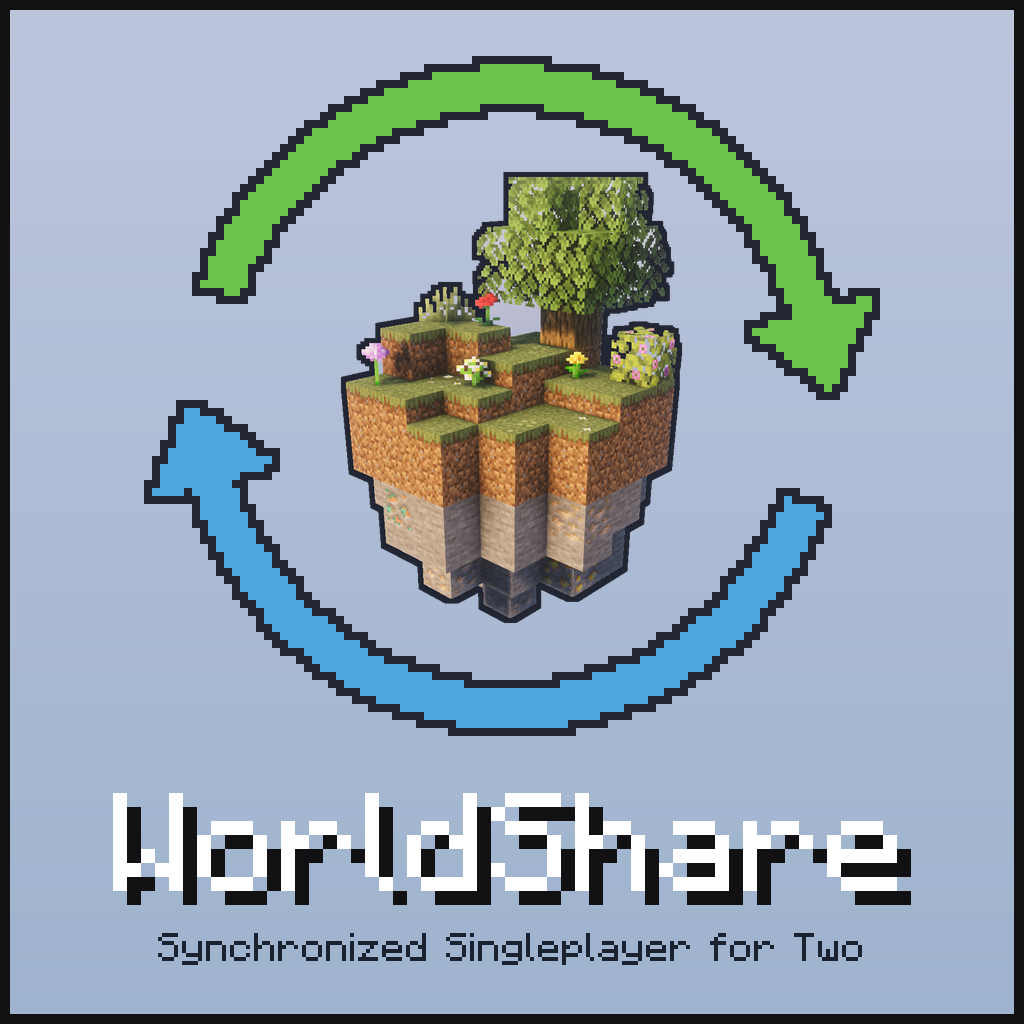
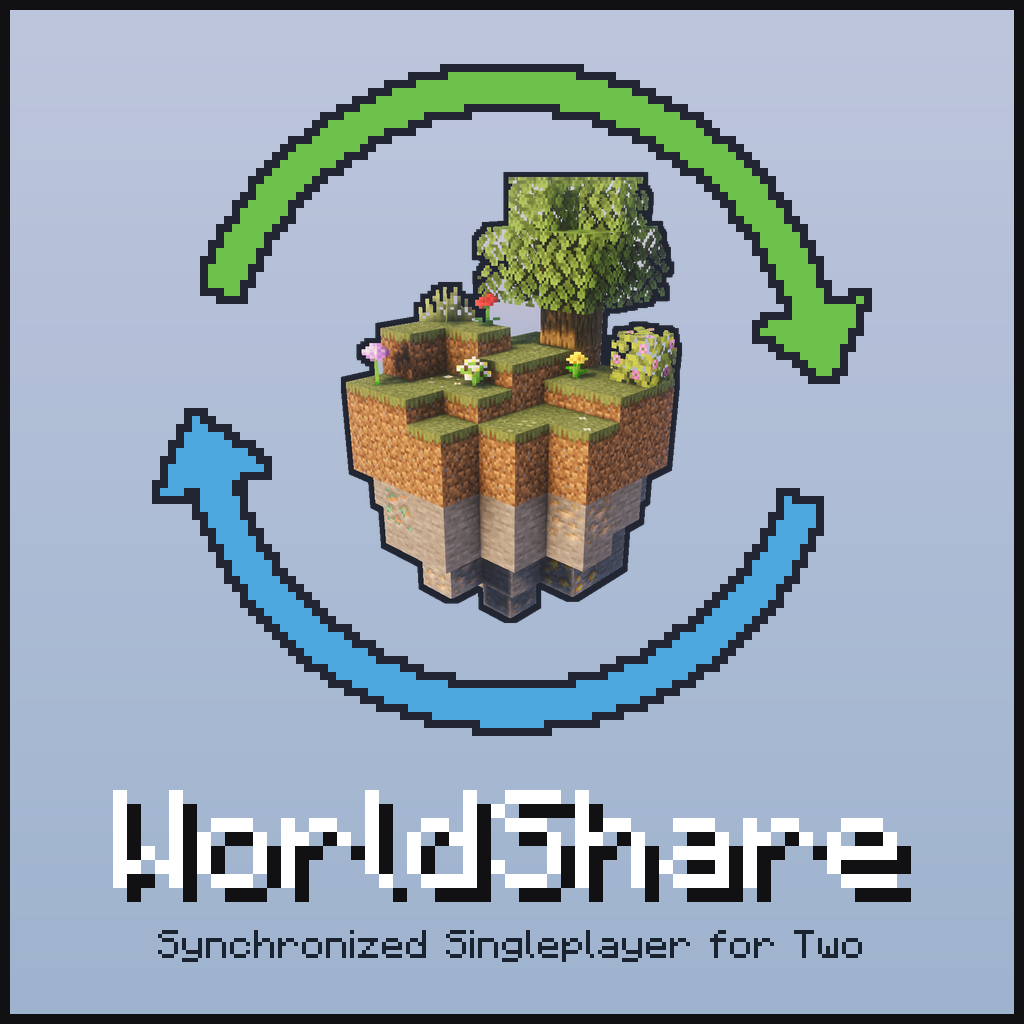
Thin the ring by 15%

diff --git a/docs/branding/make_banner.py b/docs/branding/make_banner.py
@@ -317,7 +317,7 @@ def build():
     # The ring is the tall part, not the island. It is centred on the island but
     # reaches well past it, so measuring the block by the island alone pushed the
     # ring into the frame at the top and across the wordmark at the bottom.
-    ring_w = max(8, int(W * 0.040))
+    ring_w = max(8, int(W * 0.034))
     ring_r = max(art.width, art.height) * 0.66
     ring_extent = ring_r + ring_w / 2.0 + OUTLINE_PX
     art_block_h = int(max(art.height, ring_extent * 2))

diff --git a/docs/branding/README.md b/docs/branding/README.md
@@ -25,8 +25,14 @@ reproducible and tweakable rather than a binary nobody can edit.
 ## Regenerating
 
 ```
-python make_icon.py
+python make_banner.py    # island composite: banner + 512 icon
+python make_icon.py      # abstract mark
 ```
+
+`make_banner.py`'s knobs are all constants at the top: `OUTLINE_PX` and
+`OUTLINE_INK` for the island's outline, `PIXEL_SIZE` for how coarse the ring's
+pixels are, `ARROW_GREEN`/`ARROW_BLUE`, and `TITLE`/`SUBTITLE`. Ring width and
+radius are set in `build()`, as fractions of the canvas and of the island.
 
 Writes all sizes beside the script. `CONTENT_SCALE` controls how much of the
 plate the artwork fills; it was raised from 0.60 to 0.72 because the first pass
